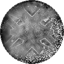
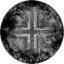
can now save and load gaim profiles

diff --git a/src/widgets/py_launcher/launchrr.py b/src/widgets/py_launcher/launchrr.py
@@ -1,7 +1,13 @@
 import glob
+import json
+import os
+import re
+import shutil
 from tkinter import Canvas, Button, OptionMenu, StringVar, PhotoImage
 from typing import Optional, List
 
+from src.domain.resource_loader import openfilename_str
+from src.services.utils import ensure_parent_dir
 from src.utils.helpers import clamp
 from src.widgets.basik_widget import BasikWidget
 from src.settings import themery as t
@@ -14,21 +20,31 @@ CANVAS_SIZE = (128, 128)
 SPIRITE_SIZE = (128, 128)
 
 MINIMUM_SPRITE_OBJ_DICT = {
+    'k_paint': {
+        "player": "Brush"
+    },
     "ABF": {
         "player": "Ball",
         "obstacle": "Platform"
     },
     "spaceDits": {
         "player": "Ship",
-        "enemy": "Alien",
-        "obstacle": "Asteroid"
+        "obstacle": "Asteroid",
+        "enemy": "Alien"
+    },
+    "ThurBo": {
+        "player": "Character",
+        "obstacle": "Wall",
+        "enemy": "Character",
+        "collectable": "Coin"
     }
 }
 
 class Launchrr(BasikWidget):
     def __init__(self, width, height, master=None, tk_root_window=None):
         super().__init__(width, height, master)
-        self.loaded_gaim = None
+        self.loaded_gaim = "ABF"
+        self.loaded_gaim_string = "ABF"
         self.helper_commands['launch'] = [self.launch_gaim, "Launch the selected gaim from launchrr",
                                           {}, "GAIM", u.rgb_to_hex(t.JUNGLE_GREEN), u.rgb_to_hex(t.DARK_SEA_GREEN)]
         self.available_gaims = {
@@ -38,24 +54,39 @@ class Launchrr(BasikWidget):
             'pylanes': pylanes.PyLanes
         }
         self.setup_dropdown_menus(list(self.available_gaims.keys()), dropdown_name="avail_gaims")
-        self.setup_button_choices(["Launch"], start_x_cell=1)
-        # self.spirite_view_frame = SpriteViewFrame(self)
-        # self.spirite2_view_frame = SpriteViewFrame(self, "Platform")
-        # self.spirite_view_frame.grid(column=0, row=1, columnspan=4)
-        # self.spirite2_view_frame.grid(column=5, row=1, columnspan=4)
+        self.setup_button_choices(["Save", "Load", "Launch"], start_y_cell=1)
+        self.button_dict['Save'][1].config(command = lambda: self.save_gaim_profile())
+        self.button_dict['Load'][1].config(command = lambda: self.load_gaim_profile())
         self.button_dict['Launch'][1].config(command = lambda: self.launch_gaim(self.dropdown_menu_dict['avail_gaims'][0].get()))
         self.launch_gaim_flag = False
-        self.spirite_view_frames = []
+        self.spirite_view_frames = {}
+        self.setup_spirite_view_frames('ABF', get_min_spirite_obj_dict("ABF"))
 
-    def setup_spirite_selections(self, gaim_name: str):
-        for gaim_object in get_min_spirite_obj_dict(gaim_name):
-            self.spirite_view_frame.set_spirite_info(get_min_spirite_obj_dict(gaim_name)[gaim_object], gaim_object)
-            self.spirite2_view_frame.set_spirite_info(get_min_spirite_obj_dict(gaim_name)[gaim_object], gaim_object)
+    def clear_spirite_view_frames(self):
+        for spirite_view_frame in self.spirite_view_frames.values():
+            spirite_view_frame.grid_forget()
+        self.spirite_view_frames = {}
+
+    def setup_spirite_view_frames(self, game_name: str, spirite_dict: dict):
+        self.clear_spirite_view_frames()
+        s = 1
+        for object_name, spirite_name in spirite_dict.items():
+            new_view_frame = SpriteViewFrame(self, spirite_name)
+            self.spirite_view_frames[object_name] = new_view_frame
+            self.spirite_view_frames[object_name].grid(column=s, row=1, columnspan=4, rowspan=3)
+            s += 5
 
     def launch_gaim(self, game_name: str = "ABF"):
         self.launch_gaim_flag = True
         self.loaded_gaim = self.available_gaims[game_name]
         self.txo.priont_string(f"Loaded {game_name} and ready for launching..")
+
+    def load_spirite_set(self, spirite_set: list):
+        for spirite_name in spirite_set:
+            shutil.copy(f"filesOutput/Bluebeard/spirites/{spirite_name}.png",
+                        f"src/widgets/py_launcher/gaims/all_balls_fall/assets/{re.sub('[0-9]', '', spirite_name)}.png")
+
+        self.txo.priont_string(f"Loaded spirite set {spirite_set}")
 
     def setup_dropdown_menus(self, word_list: Optional[List[str]]=None,
                              word_str: Optional[str]=None,
@@ -81,7 +112,28 @@ class Launchrr(BasikWidget):
     def _on_gaim_changed(self, selected_gaim: str):
         print(f"Gaim changed to {selected_gaim}")
         self.current_gaim = selected_gaim
-        self.setup_spirite_selections(selected_gaim)
+        self.loaded_gaim = selected_gaim
+        self.setup_spirite_view_frames(selected_gaim, get_min_spirite_obj_dict(selected_gaim))
+
+    def save_gaim_profile(self):
+        self.txo.priont_string("Saving gaim profile..")
+        save_path = ensure_parent_dir(f"filesOutput/Bluebeard/.profiles/gaims/{self.loaded_gaim_string}_0000.json")
+        json_dict = {}
+        for spirite_name, spirite_view_frame in self.spirite_view_frames.items():
+            json_dict[spirite_name] = spirite_view_frame.path_button.cget("text")
+        with open(save_path, "w") as f:
+            f.write(json.dumps(json_dict, indent=4, ensure_ascii=False))
+
+    def load_gaim_profile(self):
+        x = openfilename_str('filesOutput/Bluebeard/.profiles/gaims/')
+        spirite_set = []
+        with open(x, "r") as f:
+            json_dict = json.load(f)
+            for object_name, spirite_name in json_dict.items():
+                spirite_set.append(spirite_name)
+        x = x[len(os.getcwd()):]
+        self.button_dict["Load"][0].set(x.split('/')[-1])
+        self.load_spirite_set(spirite_set)
 
 
 class SpriteViewFrame(Frame):

diff --git a/main.py b/main.py
@@ -6,7 +6,8 @@ from src.widgets.texioty import texioty
 from src.settings import themery as t
 
 large_widgets = ["Texioty", "Kinvow"]
-small_widgets = ["Calendar", "Wordier", "IDUTC", "aRtay", "Launchrr", "Mujic Player", "Glythph"]
+small_widgets = ["Calendar", "Wordier", "IDUTC", "aRtay",
+                 "Launchrr", "Glythph", "Spirite Forge"]
 
 def run_pygame_game(gaim_for_launch):
     """Run a simple pygame demo loop until the user quits pygame.
@@ -54,8 +55,7 @@ class Application(tk.Frame):
         self.texioty_frame.add_helper_widget("THPH", self.glythph_frame)
         self.texioty_frame.add_helper_widget("WRDR", self.wordier_frame)
         self.texioty_frame.add_helper_widget("GAIM", self.launchrr_frame)
-        self.texioty_frame.add_helper_widget("SPRI", self.spirite_forge_frame)
-        # self.texioty_frame.add_helper_widget("GAIM", self.gaimplay_frame)
+        self.texioty_frame.add_helper_widget("SPII", self.spirite_forge_frame)
         print("Added the main frame helpers..")
 
         self.widget_dict = {
@@ -66,6 +66,7 @@ class Application(tk.Frame):
             "aRtay": self.artay_frame,
             "Wordier": self.wordier_frame,
             "Glythph": self.glythph_frame,
+            "Spirite Forge": self.spirite_forge_frame,
             "Launchrr": self.launchrr_frame
         }
         self.center_frame = SpotLighter(widget_dict=self.widget_dict, width=screen_w//3, height=screen_h//4)
@@ -114,9 +115,9 @@ class SpotLighter(tk.LabelFrame):
         :return:
         """
         north_light_var = tk.StringVar()
-        north_light_var.set('Wordier')
+        north_light_var.set('Launchrr')
         south_light_var = tk.StringVar()
-        south_light_var.set('Glythph')
+        south_light_var.set('Spirite Forge')
         east_light_var = tk.StringVar()
         east_light_var.set('Kinvow')
         west_light_var = tk.StringVar()

diff --git a/src/widgets/texioty/texoty.py b/src/widgets/texioty/texoty.py
@@ -144,44 +144,15 @@ class TEXOTY(Text):
             break_line += random.choice('┉┅')
         self.insert(END, f"\n╫{help_shade}{helper_tag} {break_line}╫", 'break_line')
 
-
-    # def priont_kre8dict(self, kre8dict: dict, indent=0):
-    #     """
-    #     Print and display the full kre8dict in Texoty.
-    #     :param kre8dict:
-    #     :param indent:
-    #     :return:
-    #     """
-    #     print(kre8dict)
-    #     for key, value in kre8dict.items():
-    #         self.priont_string(f'▐{key}╕')
-    #         if isinstance(value, str):  # STRING
-    #             self.priont_string(f'{" " * (len(key) + 1)}└{value}')
-    #         elif isinstance(value, list):  # LIST
-    #             self.priont_list(items=value, list_key=key)
-    #         elif isinstance(value, int):  # INT
-    #             self.priont_int(key, value)
-    #         elif isinstance(value, float):  # FLOAT
-    #             self.priont_float(key, value)
-    #         elif isinstance(value, dict):  # DICT
-    #             if indent == 1:
-    #                 self.priont_dict(value, parent_key=key, indent=indent + 1)
-    #             else:
-    #                 self.priont_dict(value, parent_key=key, indent=indent + 1)
-
     def priont_dict(self, the_dict: dict, parent_key=None, indent=0):
         """
         Iterate through a dictionary and display each key/value pair.
-
+1
         :param indent: How much front spacing.
         :param parent_key: The parent key in a nested dictionary.
         :param the_dict: Dictionary to iterate through.
         """
         for key, value in the_dict.items():
-            # if parent_key:
-            #     prefix = " " * (len(parent_key) - 1) + "▐"
-            # else:
-            #     prefix = ""
             prefix = ''
             self.priont_string(f'{prefix}{key}┐')
 

diff --git a/src/widgets/mujic_player.py b/src/widgets/mujic_player.py
@@ -7,6 +7,7 @@ from tkinter import filedialog
 
 import pygame.mixer
 
+from src.domain.resource_loader import openfilename_str
 from src.settings import theme
 from src.widgets import basik_widget, idutc
 from src.widgets.texioty import texoty
@@ -18,9 +19,9 @@ HUUUUGE INSPIRATION
 """
 
 
-class mujicPlayer(basik_widget.BasikWidget):
+class MujicPlayer(basik_widget.BasikWidget):
     def __init__(self, width, height, master=None, idutc_frame=None):
-        super(mujicPlayer, self).__init__(master=master, width=width, height=height, text="Play Mujic: ")
+        super(MujicPlayer, self).__init__(master=master, width=width, height=height, text="Play Mujic: ")
         self.txo: texoty.TEXOTY = None
         self.idutc: idutc.IDUTC = idutc_frame
         pygame.mixer.init()
@@ -65,6 +66,6 @@ class mujicPlayer(basik_widget.BasikWidget):
         self.loaded_wav_file2 = AudioSegment.from_wav(os.getcwd() + x)
 
 
-def openfilename_str() -> str:
-    filename = filedialog.askopenfilename(title='Open..')
-    return filename
+# def openfilename_str() -> str:
+#     filename = filedialog.askopenfilename(title='Open..')
+#     return filename

diff --git a/src/widgets/artay/tab_foto.py b/src/widgets/artay/tab_foto.py
@@ -3,6 +3,8 @@ import os
 import random
 from PIL import Image, ImageFilter
 from tkinter import filedialog
+
+from ...domain.resource_loader import openfilename_str
 from ...features.artay import fotoes
 from . import artstyle
 
@@ -152,12 +154,12 @@ class Fotoes(artstyle.Artyle):
             self.checkbutton_dict[option][0].set(0)
 
 
-def openfilename_str(init_dir=None) -> str:
-    if init_dir:
-        filename = filedialog.askopenfilename(title='Open..', initialdir=init_dir)
-    else:
-        filename = filedialog.askopenfilename(title='Open..', initialdir='/home/trevor/Documents/PycharmProjects/Regular-Gen')
-    return filename
+# def openfilename_str(init_dir=None) -> str:
+#     if init_dir:
+#         filename = filedialog.askopenfilename(title='Open..', initialdir=init_dir)
+#     else:
+#         filename = filedialog.askopenfilename(title='Open..', initialdir='/home/trevor/Documents/PycharmProjects/Regular-Gen')
+#     return filename
 
 def openfiledir_str() -> str:
     filename = filedialog.askdirectory(title='Open..', initialdir='/home/trevor/Documents/PycharmProjects/Regular-Gen')

diff --git a/src/widgets/texioty/texioty.py b/src/widgets/texioty/texioty.py
@@ -15,6 +15,9 @@ from src.settings import themery as t
 from ...services import utils as u
 import os
 
+from ...services.utils import ensure_parent_dir
+
+
 @dataclass
 class CommandRegistry:
     """
@@ -302,7 +305,7 @@ class Texioty(tk.LabelFrame):
             color_theme = self.current_prompt.question_prompt_dict['color_theme'][1]
             color_theme = t.DEFAULT_THEMES[color_theme]
             self.available_profiles[profile_name] = u.TexiotyProfile(profile_name, password, color_theme)
-            save_path = f"filesOutput/.profiles/{profile_name}.json"
+            save_path = ensure_parent_dir(f"filesOutput/Bluebeard/.profiles/{profile_name}.json")
             # print(save_path)
             if not os.path.exists(save_path):
                 with open(save_path, 'w') as f:

diff --git a/src/domain/resource_loader.py b/src/domain/resource_loader.py
@@ -1,5 +1,7 @@
 import os
 import glob
+from tkinter import filedialog
+
 
 def project_root() -> str:
     return os.path.dirname(os.path.dirname(os.path.abspath(__file__)))
@@ -41,3 +43,8 @@ def safe_filename(name: str, replacement: str = "_") -> str:
     """
     invalid = '<>:"/\\|?*\n\r\t'
     return "".join((c if c not in invalid else replacement) for c in name).strip()
+
+def openfilename_str(init_dir='') -> str:
+    open_dir = '/home/trevor/Documents/PycharmProjects/Regular-Gen/' + init_dir
+    filename = filedialog.askopenfilename(title='Open..', initialdir=open_dir)
+    return filename

diff --git a/src/widgets/basik_widget.py b/src/widgets/basik_widget.py
@@ -139,6 +139,7 @@ class BasikWidget(TexiotyHelper, ttk.LabelFrame):
                 entry.grid(column=col + start_x_cell + 1, row=row + start_y_cell, stick='w')
             else:
                 entry.grid(column=col + start_x_cell, row=row + start_y_cell)
+
     def setup_button_choices(self, button_list: List[str], start_x_cell=0, start_y_cell=0):
         """
         Take in a list of texts and create a button for each one, starting at the specified cell.

diff --git a/src/services/utils.py b/src/services/utils.py
@@ -255,7 +255,7 @@ available_profiles = {
 for profile in glob.glob(".profiles/*.json"):
     with open(profile, "r") as f:
         profile_data = json.load(f)
-        print(profile_data)
+        # print(profile_data)
         available_profiles[profile_data['texioty']["username"]] = TexiotyProfile(
             profile_data['texioty']["username"],
             profile_data['texioty']["password"],

diff --git a/src/widgets/glythph/glythph.py b/src/widgets/glythph/glythph.py
@@ -4,7 +4,8 @@ from typing import List
 
 from PIL import Image
 
-from src.widgets.artay.tab_foto import openfilename_str
+from src.domain.resource_loader import openfilename_str
+# from src.widgets.artay.tab_foto import openfilename_str
 from src.widgets.basik_widget import BasikWidget
 from src.settings import themery as t, alphanumers as a
 from src.services import utils as u

diff --git a/src/widgets/py_launcher/gaims/base_gaim/base_gaim.py b/src/widgets/py_launcher/gaims/base_gaim/base_gaim.py
@@ -50,5 +50,5 @@ class BaseGaim:
         pass
 
     def draw(self):
-        self.screen.fill((74, 14, 90))
+        self.screen.fill((34, 114, 250))
         pg.display.flip()
